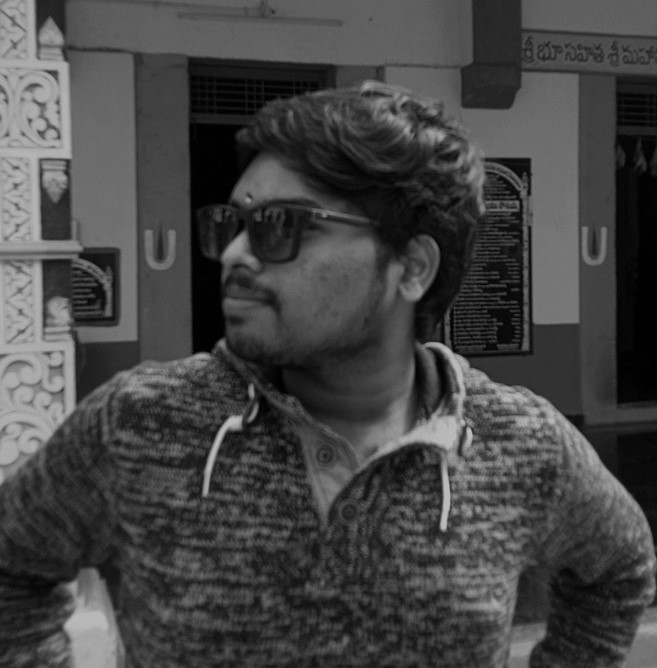
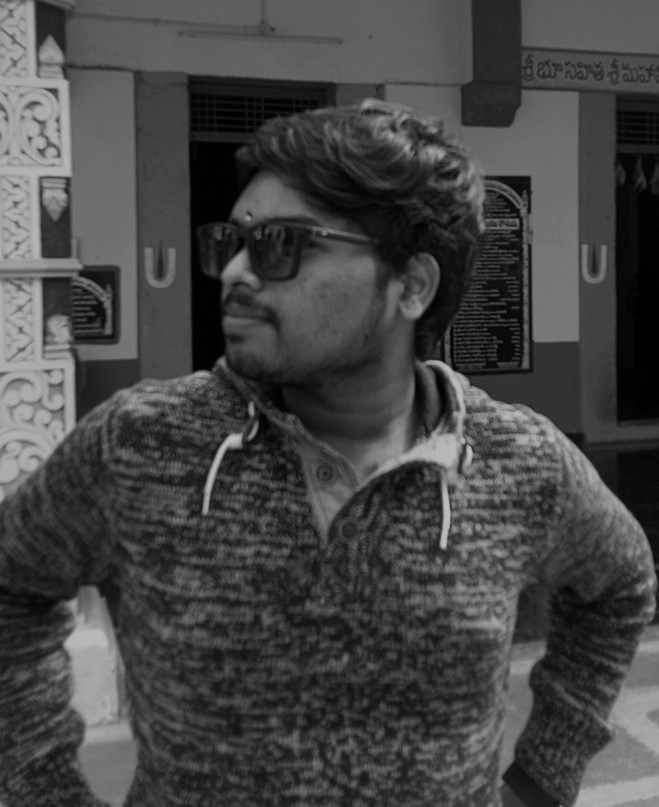
second commit

diff --git a/index.html b/index.html
@@ -99,7 +99,7 @@
 			                    <li class="smooth-menu"><a href="#experience">experience</a></li>
 			                    <li class="smooth-menu"><a href="#profiles">blogs</a></li>
 			                    <li class="smooth-menu"><a href="#portfolio">portfolio</a></li>
-			                    <li class="smooth-menu"><a href="#clients">clients</a></li>
+			                    <li class="smooth-menu"><a href="#clients">certifications</a></li>
 			                    <li class="smooth-menu"><a href="#contact">contact</a></li>
 			                </ul><!--/.nav -->
 			            </div><!-- /.navbar-collapse -->
@@ -120,8 +120,8 @@
 					<div class="col-md-12 text-center">
 						<div class="header-text">
 							<h2>hi<span>,</span> i am <br> Mohan <br>   </h2>
-							<p>ui/ux designer and web developer</p>
-							<a href="assets/download/browney.txt" download>download resume</a>
+							<p>Student Lead @Innovation Club KITS IT 2025 <br> Public Speaker | Blogger</p>
+							<a href="assets/download/monu.txt" download>download resume</a>
 						</div><!--/.header-text-->
 					</div><!--/.col-->
 				</div><!-- /.row-->
@@ -156,7 +156,7 @@
 									<div class="col-sm-4">
 										<div class="single-about-add-info">
 											<h3>website</h3>
-											<p>www.monu.com</p>
+											<a href="https://mohandaadi.github.io/Monu-s-Portfolio/">www.monu.com</a>
 										</div>
 									</div>
 									<div class="col-sm-4">
@@ -909,7 +909,7 @@
 										</div>
 										<div class="single-contact-add-info">
 											<h3>website</h3>
-											<p>www.monu.com</p>
+											<a href="https://mohandaadi.github.io/Monu-s-Portfolio/">www.monu.com</a>
 										</div>
 									</div>
 								</div><!--/.contact-adress-->

diff --git a/assets/css/style.css b/assets/css/style.css
@@ -1,27 +1,3 @@
-/*==================================
-* Author        : "ThemeSine"
-* Template Name :  Browny  HTML Template
-* Version       : 1.0
-==================================== */
-
-/*==================================
-font-family: 'Poppins', sans-serif;
-==================================== */
-
-
-/*=========== TABLE OF CONTENTS ===========
-1.  General css (Reset code)
-2.  Header
-3.  Welcome-hero
-4.  About me 
-5.  Education
-6.  Skill
-7.  Experience
-8.  Profiles
-9.  Portfolio
-10. Clients
-11. Contact
-
 /*-------------------------------------
 		1.General css (Reset code)
 --------------------------------------*/
@@ -324,7 +300,7 @@ nav.navbar.bootsnav .navbar-toggle i{color: #d92cf9;}
 /*.single-about-txt*/
 
 /*.single-about-img */
-.single-about-img{position: relative;box-shadow: 0 5px 20px rgba(14,25,80,.30);}
+/* .single-about-img{position: relative;box-shadow: 0 5px 20px rgba(14,25,80,.30);}
 .single-about-img:before {
     position:  absolute;
     content: " ";
@@ -333,11 +309,12 @@ nav.navbar.bootsnav .navbar-toggle i{color: #d92cf9;}
     width: 109%;
     height:  100%;
     background: rgba(31,44,108,.3);
-}
+} */
 .single-about-img img {
-    max-width: 500px;
-    height: 468px;
-}
+    max-width: 100%;
+    height: 100%;
+    margin-left: 23px;
+} 
 .about-list-icon{
     display: flex;
     justify-content: center;
@@ -345,8 +322,8 @@ nav.navbar.bootsnav .navbar-toggle i{color: #d92cf9;}
     position: absolute;
     bottom: 0;
     left: 0;
-    width: 109%;
-    height: 90px;
+    width: 100%;
+    height: 80px;
     background: #1f2c6c;
 }
 /*.ab-list-icon */
